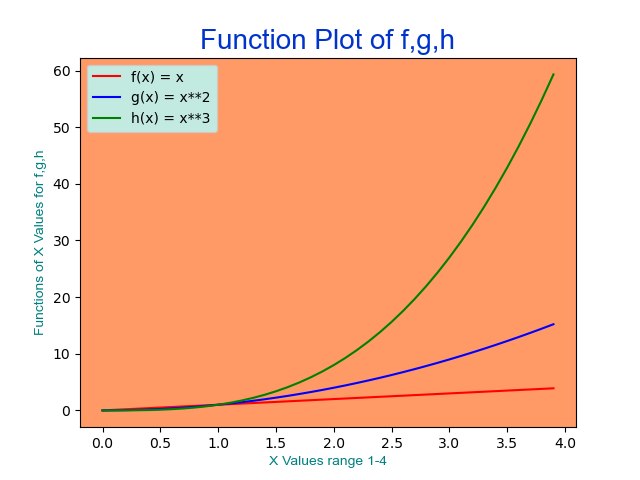
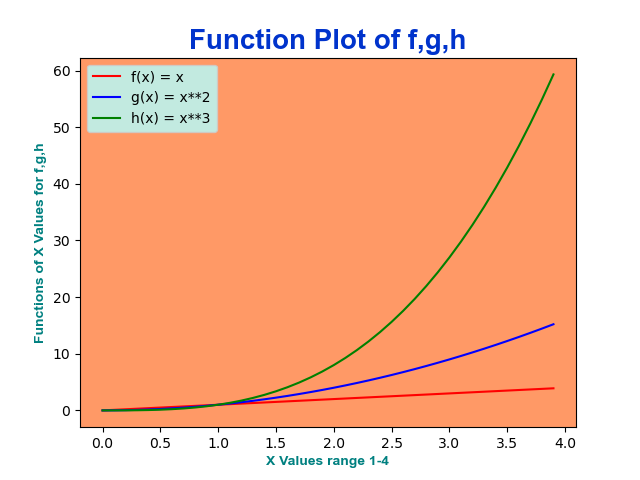
modified code

Changed region(s): [[0.2812, 0.0625, 0.75, 0.125], [0.0312, 0.3125, 0.0938, 0.7188], [0.4062, 0.9375, 0.625, 0.9688]]

diff --git a/plottask.py b/plottask.py
@@ -37,13 +37,13 @@ plt.plot(xpoints,hpoints, color = 'g', label = 'h(x) = x**3')
 plt.legend(facecolor='#b3ffff')
 
 # Assign a title to the plot graph with 'font1'
-plt.title('Function Plot of f,g,h', fontdict = font1)
+plt.title('Function Plot of f,g,h', fontdict = font1, weight = 'bold')
 
 # Assign a label to the x axis with a font type of 'font2'
-plt.xlabel('X Values range 1-4', fontdict = font2)
+plt.xlabel('X Values range 1-4', fontdict = font2, weight ='bold')
 
 # Assign a label to the y axis with a font type of 'font2'
-plt.ylabel('Functions of X Values for f,g,h', fontdict = font2)
+plt.ylabel('Functions of X Values for f,g,h', fontdict = font2, weight ='bold')
 
 # Export a figure of the plot as 'Plot.png'
 plt.savefig('Plot.png')
